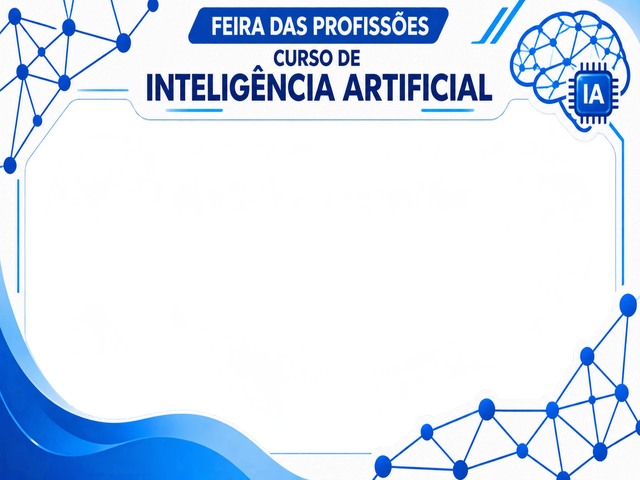
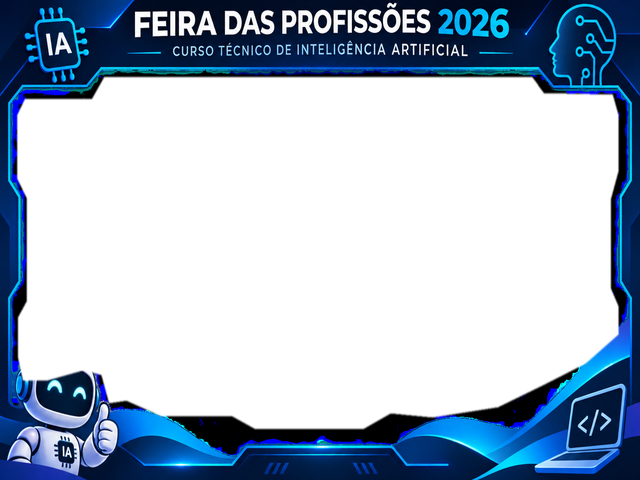
feat: exibe a moldura oficial no visor da câmera

diff --git a/tests/PhotoCapture.test.tsx b/tests/PhotoCapture.test.tsx
@@ -14,6 +14,7 @@ const jpeg = new Blob(['jpeg'], { type: 'image/jpeg' });
 const createUrl = vi.fn(() => 'blob:foto-da-cabine');
 const revokeUrl = vi.fn();
 const drawImage = vi.fn();
+const setTransform = vi.fn();
 const encode = vi.fn<(callback: BlobCallback, type?: string, quality?: number) => void>();
 let root: Root;
 let host: HTMLDivElement;
@@ -47,6 +48,7 @@ beforeEach(() => {
   vi.stubGlobal('navigator', { mediaDevices: api });
   vi.spyOn(HTMLCanvasElement.prototype, 'getContext').mockReturnValue({
     drawImage,
+    setTransform,
   } as unknown as CanvasRenderingContext2D);
   vi.spyOn(HTMLCanvasElement.prototype, 'toBlob').mockImplementation(encode);
   encode.mockImplementation((callback) => callback(jpeg));
@@ -101,6 +103,51 @@ async function advance(milliseconds: number) {
 }
 
 describe('Sistema fotográfico', () => {
+  it.each([
+    [1280, 720, 'feira-das-profissoes.png'],
+    [640, 480, 'feira-das-profissoes-4x3.png'],
+  ])('mantém a moldura do visor %i × %i durante a contagem', async (width, height, file) => {
+    const video = await open({ width, height });
+    const frame = get<HTMLImageElement>('.camera-viewport__frame');
+    expect(frame.getAttribute('src')).toMatch(new RegExp('/' + file + '$'));
+    expect(frame.parentElement).toBe(video.parentElement);
+    await press('.shutter');
+    expect(get('.camera-viewport__frame')).toBe(frame);
+    expect(get('.countdown')).toBeTruthy();
+    expect(drawImage).not.toHaveBeenCalled();
+    await advance(5000);
+    expect(drawImage).toHaveBeenCalledExactlyOnceWith(video, 0, 0, width, height);
+    expect(setTransform).toHaveBeenCalledExactlyOnceWith(-1, 0, 0, 1, width, 0);
+    expect(composition.composePhoto).toHaveBeenCalledOnce();
+  });
+
+  it('troca a moldura quando o vídeo muda de proporção, sem trocar o vídeo', async () => {
+    const video = await open();
+    Object.defineProperties(video, {
+      videoWidth: { value: 640 },
+      videoHeight: { value: 480 },
+    });
+    await act(async () => video.dispatchEvent(new Event('resize')));
+    expect(get('video')).toBe(video);
+    expect(get<HTMLImageElement>('.camera-viewport__frame').getAttribute('src')).toContain(
+      'feira-das-profissoes-4x3.png',
+    );
+
+    Object.defineProperty(video, 'videoWidth', { value: 854 });
+    await act(async () => video.dispatchEvent(new Event('resize')));
+    expect(host.querySelector('.camera-viewport__frame')).toBeNull();
+  });
+
+  it('salva o quadro com a mesma orientação quando o espelho está desligado', async () => {
+    const video = await open();
+    await press('.camera-controls__mirror input');
+    expect(video.dataset.mirrored).toBe('false');
+    await press('.shutter');
+    await advance(5000);
+    expect(setTransform).not.toHaveBeenCalled();
+    expect(drawImage).toHaveBeenCalledExactlyOnceWith(video, 0, 0, 1280, 720);
+  });
+
   it.each([
     ['start5', 5_000],
     ['start10', 10_000],

diff --git a/src/hooks/usePhotoCapture.ts b/src/hooks/usePhotoCapture.ts
@@ -13,6 +13,7 @@ type CaptureTicket = {
   stream: MediaStream;
   controller: AbortController;
   scenario: Scenario;
+  mirrored: boolean;
   captured?: boolean;
   background?: AbortController;
 };
@@ -25,6 +26,7 @@ export function usePhotoCapture(
   videoRef: RefObject<HTMLVideoElement | null>,
   stream: MediaStream | null,
   ready: boolean,
+  mirrored: boolean,
 ) {
   const { countdown, start: schedule, cancel: cancelCountdown } = useCountdown();
   const [state, setState] = useState<PhotoState>({ phase: 'idle' });
@@ -83,7 +85,7 @@ export function usePhotoCapture(
       return;
     }
 
-    const ticket = { stream, controller: new AbortController(), scenario };
+    const ticket: CaptureTicket = { stream, controller: new AbortController(), scenario, mirrored };
     operation.current = ticket;
     setState({ phase: 'countdown' });
     schedule(duration, () => void capture(ticket));
@@ -100,7 +102,7 @@ export function usePhotoCapture(
       return;
     }
 
-    const ticket: CaptureTicket = { stream, controller: new AbortController(), scenario };
+    const ticket: CaptureTicket = { stream, controller: new AbortController(), scenario, mirrored };
     operation.current = ticket;
     void capture(ticket);
   }
@@ -109,7 +111,7 @@ export function usePhotoCapture(
     if (operation.current !== ticket) return;
 
     try {
-      const result = captureFrame(videoRef.current, ticket.stream);
+      const result = captureFrame(videoRef.current, ticket.stream, ticket.mirrored);
       setState({ phase: 'capturing' });
       const original = await result;
       if (operation.current !== ticket) return;

diff --git a/src/pages/BoothPage.tsx b/src/pages/BoothPage.tsx
@@ -16,6 +16,7 @@ import { useCamera } from '../hooks/useCamera';
 import { useGestureRecognition } from '../hooks/useGestureRecognition';
 import { usePhotoCapture } from '../hooks/usePhotoCapture';
 import { cameraMessages } from '../services/camera';
+import { selectOfficialFrame } from '../services/photoComposition';
 import type { TimerDuration } from '../types/photo';
 import { scenarios, type Scenario } from '../services/virtualBackground';
 import { storageConfigured } from '../services/privatePhotoStorage';
@@ -33,7 +34,7 @@ export function BoothPage() {
   const [scenario, setScenario] = useState<Scenario>('original');
   const [operatorToken, setOperatorToken] = useState<string | null>(null);
   const ready = status === 'active' && Boolean(camera.settings.width && camera.settings.height);
-  const capture = usePhotoCapture(camera.videoRef, camera.stream, ready);
+  const capture = usePhotoCapture(camera.videoRef, camera.stream, ready, camera.mirrored);
   const { state, countdown, error } = capture;
   const recognition = useGestureRecognition(
     camera.videoRef,
@@ -90,6 +91,11 @@ export function BoothPage() {
           <div className="booth-grid" data-reviewing={reviewing}>
             <div className="booth-stage booth-stage--camera">
               <CameraViewport
+                frameUrl={
+                  ready
+                    ? selectOfficialFrame(camera.settings.width ?? 0, camera.settings.height ?? 0)
+                    : undefined
+                }
                 video={
                   camera.stream && (
                     <>

diff --git a/src/components/CameraViewport.tsx b/src/components/CameraViewport.tsx
@@ -22,14 +22,32 @@ export function FramingGuides() {
   );
 }
 
-export function CameraViewport({ video, overlay }: { video?: ReactNode; overlay?: ReactNode }) {
+export function CameraViewport({
+  video,
+  overlay,
+  frameUrl,
+}: {
+  video?: ReactNode;
+  overlay?: ReactNode;
+  frameUrl?: string;
+}) {
+  const framed = Boolean(video && frameUrl);
   return (
-    <section aria-label="Visor da câmera" className="camera-viewport">
-      <FramingGuides />
-      <div className="camera-viewport__label">
-        <ScanLine size={17} aria-hidden="true" /> Visor da câmera
-      </div>
-      {video && <div className="camera-viewport__media">{video}</div>}
+    <section aria-label="Visor da câmera" className="camera-viewport" data-framed={framed}>
+      {!framed && (
+        <>
+          <FramingGuides />
+          <div className="camera-viewport__label">
+            <ScanLine size={17} aria-hidden="true" /> Visor da câmera
+          </div>
+        </>
+      )}
+      {video && (
+        <div className="camera-viewport__media">
+          {video}
+          {frameUrl && <img className="camera-viewport__frame" src={frameUrl} alt="" />}
+        </div>
+      )}
       {overlay}
     </section>
   );

diff --git a/tests/PhotoComposition.test.ts b/tests/PhotoComposition.test.ts
@@ -1,6 +1,6 @@
 // @vitest-environment jsdom
 import { afterEach, beforeEach, expect, it, vi } from 'vitest';
-import { composePhoto } from '../src/services/photoComposition';
+import { composePhoto, selectOfficialFrame } from '../src/services/photoComposition';
 
 const png = new Blob(['frame'], { type: 'image/png' });
 const originalBlob = new Blob(['original'], { type: 'image/jpeg' });
@@ -56,8 +56,10 @@ it.each([
     const result = await composePhoto(original, signal);
     expect(result).toEqual({ frame: 'applied', photo: { blob: jpeg, width, height } });
     expect(original).toEqual({ blob: originalBlob, width, height });
+    const previewUrl = selectOfficialFrame(width, height);
+    expect(previewUrl).toEqual(expect.stringContaining('/' + file));
     expect(fetch).toHaveBeenCalledExactlyOnceWith(
-      expect.stringContaining('/' + file),
+      previewUrl,
       expect.objectContaining({ signal: expect.any(AbortSignal) }),
     );
     expect(createImageBitmap).toHaveBeenNthCalledWith(2, originalBlob);

diff --git a/src/services/photoComposition.ts b/src/services/photoComposition.ts
@@ -20,11 +20,20 @@ function ratioOf(width: number, height: number): FrameRatio | null {
   return null;
 }
 
+function officialFrameUrl(ratio: FrameRatio) {
+  return frames[framePaths[ratio]];
+}
+
+export function selectOfficialFrame(width: number, height: number) {
+  const ratio = ratioOf(width, height);
+  return ratio ? officialFrameUrl(ratio) : undefined;
+}
+
 export async function loadOfficialFrame(
   width: number,
   height: number,
   signal?: AbortSignal,
-  resolveFrameUrl: (ratio: FrameRatio) => string | undefined = (ratio) => frames[framePaths[ratio]],
+  resolveFrameUrl: (ratio: FrameRatio) => string | undefined = officialFrameUrl,
 ): Promise<{ frame: 'applied'; bitmap: ImageBitmap } | { frame: 'missing' | 'unsupported' }> {
   const ratio = ratioOf(width, height);
   if (!ratio) return { frame: 'unsupported' };

diff --git a/src/services/photoCapture.ts b/src/services/photoCapture.ts
@@ -22,6 +22,7 @@ export function checkPhotoSource(
 export async function captureFrame(
   video: HTMLVideoElement | null,
   stream: MediaStream | null,
+  mirrored = false,
 ): Promise<CapturedPhoto> {
   checkPhotoSource(video, stream);
   const { videoWidth: width, videoHeight: height } = video;
@@ -32,6 +33,7 @@ export async function captureFrame(
     const context = canvas.getContext('2d');
     if (!context) throw new Error('Não foi possível iniciar o Canvas. Tente novamente.');
     try {
+      if (mirrored) context.setTransform(-1, 0, 0, 1, width, 0);
       context.drawImage(video, 0, 0, width, height);
     } catch (cause) {
       throw new Error('Não foi possível ler o quadro da câmera. Tente novamente.', { cause });

diff --git a/src/styles.css b/src/styles.css
@@ -325,10 +325,21 @@
   inset: 0;
   z-index: -1;
 }
-.camera-viewport__media video {
+.camera-viewport[data-framed='true'] .camera-viewport__media {
+  inset: var(--space-2);
+}
+
+.camera-viewport__media video,
+.camera-viewport__frame {
+  position: absolute;
+  inset: 0;
   width: 100%;
   height: 100%;
   object-fit: contain;
+  object-position: center;
+}
+.camera-viewport__frame {
+  pointer-events: none;
 }
 .framing-guides {
   position: absolute;

diff --git a/docs/COMPOSICAO_FOTOGRAFICA.md b/docs/COMPOSICAO_FOTOGRAFICA.md
@@ -1,15 +1,15 @@
 # Composição fotográfica — Etapa 06
 
-A cabine usa duas artes oficiais Redes Neurais, incluídas no build pelo Vite. Os PNGs fornecidos foram copiados byte a byte e têm canal alfa.
+A cabine usa os dois PNGs oficiais da Feira das Profissões 2026, com a identificação do Curso Técnico de Inteligência Artificial. Os arquivos fornecidos têm canal alfa na abertura central e foram incluídos sem reexportação.
 
 | Proporção da captura | Arte em `src/assets/frames/`   | Dimensões da arte |
 | -------------------- | ------------------------------ | ----------------- |
 | 16:9                 | `feira-das-profissoes.png`     | 1920 × 1080       |
 | 4:3                  | `feira-das-profissoes-4x3.png` | 640 × 480         |
 
-A escolha usa as dimensões do JPEG original e compara as proporções exatamente. A resolução informada pelo driver, a configuração do celular e o nome da câmera não determinam a escolha. Se o DroidCam entregar 1920 × 1080 ao navegador, a moldura será 16:9. A seleção acontece na composição, após a captura.
+A escolha usa as dimensões reais do vídeo no visor e as do quadro capturado na composição. As duas etapas usam a mesma regra e a mesma URL de moldura. Vídeo e PNG ocupam a mesma área do visor, centralizados com `object-fit: contain`. Quando o visor tem outra proporção, o espaço restante fica fora da fotografia e o quadro permanece inteiro.
 
-O Canvas tem o tamanho exato da fotografia. Ele desenha o quadro inteiro na orientação original e redimensiona somente a arte, proporcionalmente, para sobrepor com alfa `source-over`. Isso preserva a parte superior e inferior da captura 4:3 e permite usar a arte de 640 × 480 em fotos 4:3 maiores. O espelhamento da prévia não afeta o JPEG final, que usa qualidade 0,95.
+O Canvas usa a resolução nativa e desenha o quadro inteiro na orientação escolhida no visor. Somente a imagem da câmera é espelhada quando a opção está ativa. A composição aplica a arte uma vez, com alfa `source-over`, e exporta o JPEG com qualidade 0,95.
 
 Outras proporções, incluindo retrato e medidas apenas próximas de 16:9 ou 4:3, mantêm o JPEG original, com aviso na revisão. A cabine também mantém o original quando falta a arte correspondente, a proporção da arte é incompatível ou a composição falha.
 
@@ -19,7 +19,7 @@ Com cenário virtual, a Etapa 07 segmenta o primeiro plano antes da moldura e ex
 
 Na revisão, as dimensões do JPEG determinam a proporção do painel. O painel respeita a largura disponível e o limite de 65% da altura visível. A imagem ocupa sua largura com altura proporcional, sem margem interna. Antes, o limite de altura do painel não limitava a altura do elemento de imagem. No ensaio em Chrome, uma captura 4:3 ocupou 824 px de altura em um painel com limite próximo de 457 px. Com o ajuste, o painel e a imagem acompanham o mesmo enquadramento.
 
-Na região inspecionada da abertura da arte 4:3 (x de 25 a 614, y de 120 a 420), não foram encontrados pixels quase pretos com alfa acima de 4/255. Os PNGs originais continuam em uso. Com uma fotografia pública e um padrão sintético em 640 × 480 e 1920 × 1080, o Chrome confirmou as dimensões finais e pixels preservados à esquerda, no centro e à direita da abertura. O ensaio não reproduziu as faixas laterais relatadas. Se elas aparecerem dentro do próprio JPEG, compare com o quadro original do DroidCam. A composição conserva qualquer faixa que já faça parte do quadro entregue pelo dispositivo.
+Se aparecerem faixas dentro do próprio JPEG, compare com o quadro original do DroidCam. A composição conserva qualquer faixa que já faça parte do quadro entregue pelo dispositivo.
 
 ## Validação física
 

diff --git a/docs/PROGRESSO.md b/docs/PROGRESSO.md
@@ -296,3 +296,11 @@ Lint, tipagem, formatação, build e os 55 testes passaram. O worker do build se
 - **Segurança preservada** autenticação do operador, validação pela Edge Function, sessão em memória, expiração, cancelamento de requisições e revogação de URLs temporárias permanecem no layout administrativo existente.
 - **Arquivos** `src/App.tsx`, `src/pages/AdminPage.tsx`, `src/pages/OfficialStoriesPage.tsx`, `src/pages/admin.css`, `tests/AdminPage.test.tsx`, `docs/ARQUITETURA.md`, `docs/INTEGRACAO_INSTAGRAM.md` e `docs/PROGRESSO.md`.
 - **Validação** pendente de lint, typecheck, testes e build nesta implementação.
+
+### Moldura da Feira das Profissões 2026 no visor — 23/11/2026
+
+- **Escopo** substituição dos PNGs oficiais de 1920 × 1080 e 640 × 480 e prévia no visor antes e durante a contagem. A abertura central tem alfa transparente nos dois arquivos, preservados byte a byte.
+- **Implementação** `CameraViewport`, `BoothPage`, estilos da cabine, serviços de captura e composição e `usePhotoCapture`. Visor e composição selecionam o mesmo PNG pela proporção nativa. O JPEG mantém a orientação espelhada escolhida no visor e recebe a arte uma única vez.
+- **Validação visual** Chrome com vídeo sintético nas duas proporções e larguras de 390 e 1280 px. O retângulo da moldura coincidiu com o do vídeo, e as capturas conferidas preservaram resolução e orientação.
+- **Validação automatizada** lint, typecheck e build do GitHub Pages passaram. O Vitest passou com 189 testes em 16 arquivos. Nenhuma dependência adicionada.
+- **Continuidade** branch `feature/camera-frame-preview`, para revisão em `develop`. Validar com a câmera ou DroidCam do evento e com gestos reais antes da integração.

diff --git a/README.md b/README.md
@@ -24,7 +24,7 @@ Na cabine, Tab alcança o grupo Temporizador e as setas alternam entre 5 e 10 se
 Com a câmera pronta, selecione a duração e pressione **Tirar foto**. A contagem pode
 ser cancelada. Na revisão, **Tirar novamente** descarta a foto e volta à transmissão.
 **Confirmar foto** mantém o JPEG em memória até você sair da cabine ou tirar outra foto.
-O espelhamento da prévia não altera a fotografia.
+O espelhamento escolhido no visor também se aplica à fotografia. A moldura oficial mantém a orientação da arte.
 
 Para habilitar o armazenamento temporário da Etapa 08, configure as variáveis públicas do
 Supabase em `.env.local`, prepare as migrations e o Cron e entre em **Acesso da equipe**.

diff --git a/src/assets/frames/README.md b/src/assets/frames/README.md
@@ -1,6 +1,6 @@
 # Molduras oficiais
 
-Esta pasta contém as artes oficiais Redes Neurais da Feira das Profissões, com canal alfa na abertura central.
+Esta pasta contém as artes oficiais da Feira das Profissões 2026 para o Curso Técnico de Inteligência Artificial, com canal alfa na abertura central.
 
 - `feira-das-profissoes.png` tem 1920 × 1080 pixels (16:9).
 - `feira-das-profissoes-4x3.png` tem 640 × 480 pixels (4:3).
